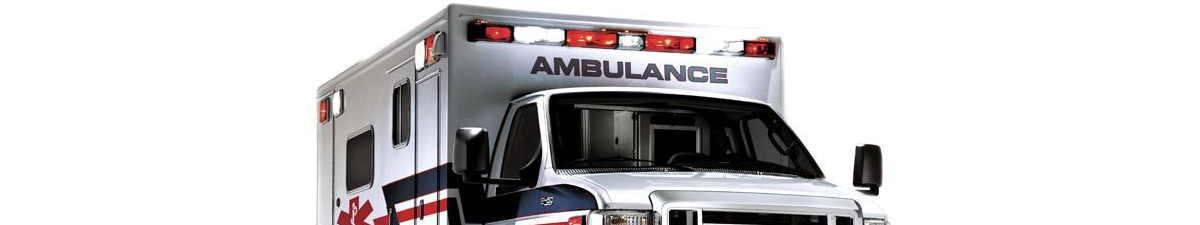
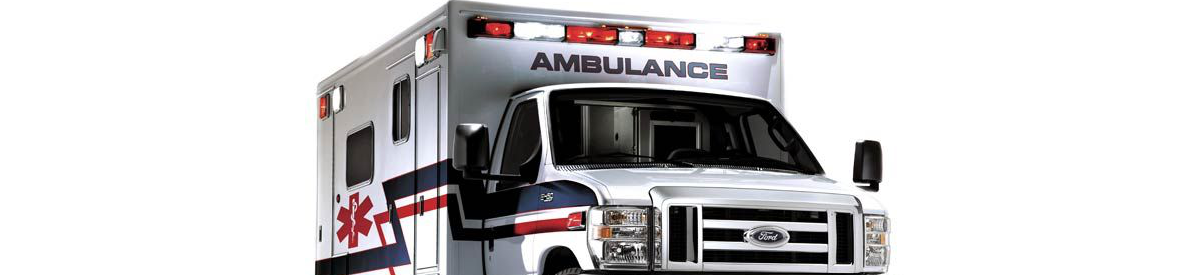
Improving Image sizes

Changed region(s): [[0.2467, 0.0, 0.74, 1.0]]

diff --git a/ems/hospital/css/apshai.css b/ems/hospital/css/apshai.css
@@ -3,7 +3,7 @@
   background: url('../img/mustacheTerp2.png') no-repeat center center;
   position: absolute;
   width: 100%;
-  height: 225px; 
+  height: 275px; 
   top:20;
   left:0;
   z-index: -1;
@@ -13,7 +13,7 @@
   background: url('../img/hospBanner.png') no-repeat center center;
   position: absolute;
   width: 100%;
-  height: 225px; 
+  height: 275px; 
   top:20;
   left:0;
   z-index: -1;
@@ -21,7 +21,7 @@
 
 .jumbotron {
     margin-bottom: 0px;
-    height: 225px;
+    height: 275px;
     color: white;
     text-shadow: black 0.3em 0.3em 0.3em;
     background: transparent;

diff --git a/ems/dispatch/css/apshai.css b/ems/dispatch/css/apshai.css
@@ -3,7 +3,7 @@
   background: url('../img/mustacheTerp2.png') no-repeat center center;
   position: absolute;
   width: 100%;
-  height: 225px; 
+  height: 275px; 
   top:20;
   left:0;
   z-index: -1;
@@ -13,7 +13,7 @@
   background: url('../img/ambBanner.png') no-repeat center center;
   position: absolute;
   width: 100%;
-  height: 225px; 
+  height: 275px; 
   top:20;
   left:0;
   z-index: -1;
@@ -21,7 +21,7 @@
 
 .jumbotron {
     margin-bottom: 0px;
-    height: 225px;
+    height: 275px;
     color: white;
     text-shadow: black 0.3em 0.3em 0.3em;
     background: transparent;

diff --git a/ems/provider/css/apshai.css b/ems/provider/css/apshai.css
@@ -3,7 +3,7 @@
   background: url('../img/mustacheTerp2.png') no-repeat center center;
   position: absolute;
   width: 100%;
-  height: 225px; 
+  height: 275px; 
   top:20;
   left:0;
   z-index: -1;
@@ -13,7 +13,7 @@
   background: url('../img/emsBanner.png') no-repeat center center;
   position: absolute;
   width: 100%;
-  height: 225px; 
+  height: 275px; 
   top:20;
   left:0;
   z-index: -1;
@@ -21,7 +21,7 @@
 
 .jumbotron {
     margin-bottom: 0px;
-    height: 225px;
+    height: 275px;
     color: white;
     text-shadow: black 0.3em 0.3em 0.3em;
     background: transparent;
